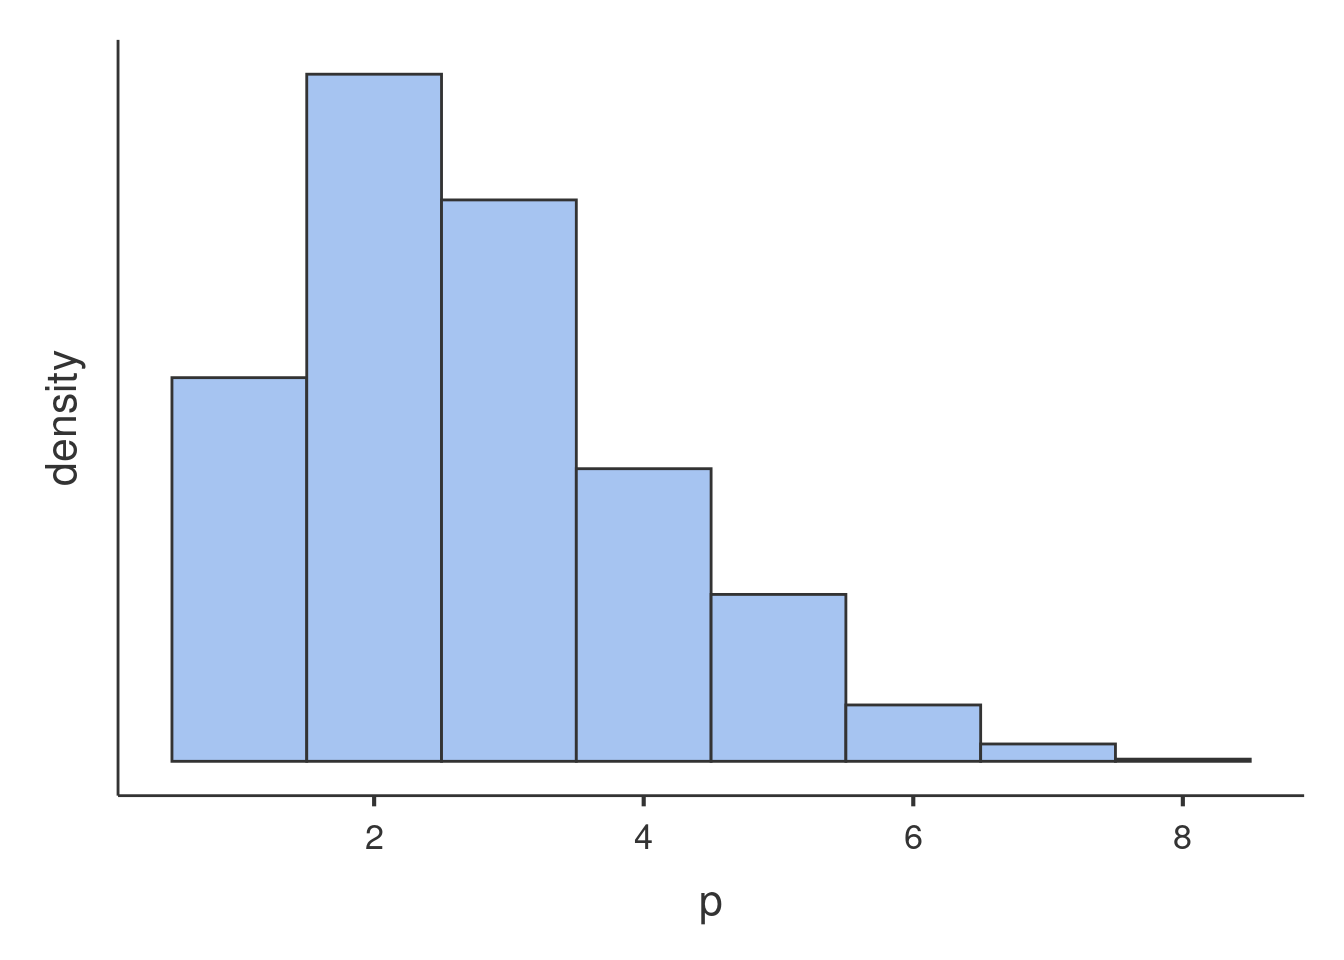
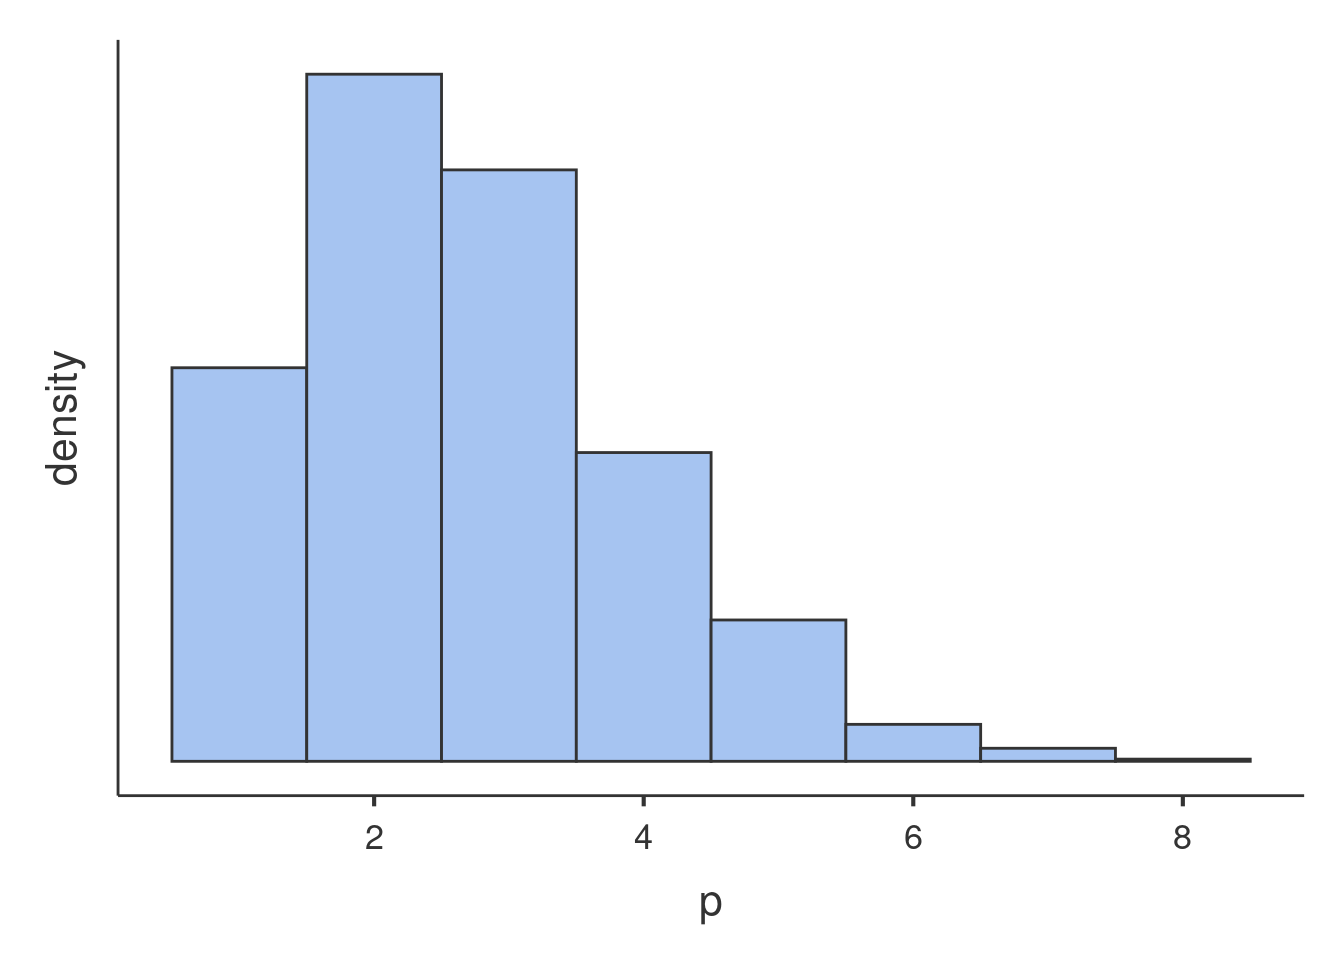
updates

diff --git a/docssource/glmmixed_example2.html b/docssource/glmmixed_example2.html
@@ -420,7 +420,7 @@ div.tocify {
 <p><img src="glmmixed_example2_files/figure-html/unnamed-chunk-2-1.png" width="672" /></p>
 <p>Glancing at the histogram makes it clear that the distribution is not normal, but it roughly resembles the Poisson distribution. Here is an example of Poisson distribution with equivalent mean.</p>
 <p><img src="glmmixed_example2_files/figure-html/unnamed-chunk-3-1.png" width="672" /></p>
-<p>We can see that the shape of our distribution is not qualitatively very different as compared with a theoretical Poisson distribution, so a Generalized Linear Model with Poisson distribition may work. However, we can check wheather our distribution is in line with the features of the Poisson dist by checking its mean and variance. The Poisson distribution has variance equal to the mean, in fact the simulated distribution in the histogram has <span class="math inline">\(\bar{x}=1.733\)</span> and <span class="math inline">\(s^2=1.785\)</span>. The <code>art</code> variable distribution has <span class="math inline">\(\bar{x}=1.693\)</span> and <span class="math inline">\(s^2=3.71\)</span>, with a ratio variance/mean of 2.191, which does not really qualify for Poisson dist. This looks like a case of <strong>overdispersion</strong>, <a href="http://bbolker.github.io/mixedmodels-misc/glmmFAQ.html#overdispersion">cf. here for details</a>. We will than consider a Negative Binomial model to account for possible overdispersion.</p>
+<p>We can see that the shape of our distribution is not qualitatively very different as compared with a theoretical Poisson distribution, so a Generalized Linear Model with Poisson distribition may work. However, we can check wheather our distribution is in line with the features of the Poisson dist by checking its mean and variance. The Poisson distribution has variance equal to the mean, in fact the simulated distribution in the histogram has <span class="math inline">\(\bar{x}=1.674\)</span> and <span class="math inline">\(s^2=1.611\)</span>. The <code>art</code> variable distribution has <span class="math inline">\(\bar{x}=1.693\)</span> and <span class="math inline">\(s^2=3.71\)</span>, with a ratio variance/mean of 2.191, which does not really qualify for Poisson dist. This looks like a case of <strong>overdispersion</strong>, <a href="http://bbolker.github.io/mixedmodels-misc/glmmFAQ.html#overdispersion">cf. here for details</a>. We will than consider a Negative Binomial model to account for possible overdispersion.</p>
 <p>An example of Negative Binomial distribution with equivalent mean and variance is here.</p>
 <p><img src="glmmixed_example2_files/figure-html/unnamed-chunk-4-1.png" width="672" /></p>
 <p>The second issue one needs to deal with is the structure of the data. We have seen that the students are not a random sample of students drawn independently one each other, but they are grouped by the program they are enrolled in. There are 83 programs, in each program there are on average 11 students. Because students in the same program may be more similar one each other than across programs, <code>programs</code> may cluster the scores of the dependent variable and create dependency in the data. To take dependency into the account, we will use a random intercepts model estimated with a Generalized Mixed Model.</p>
